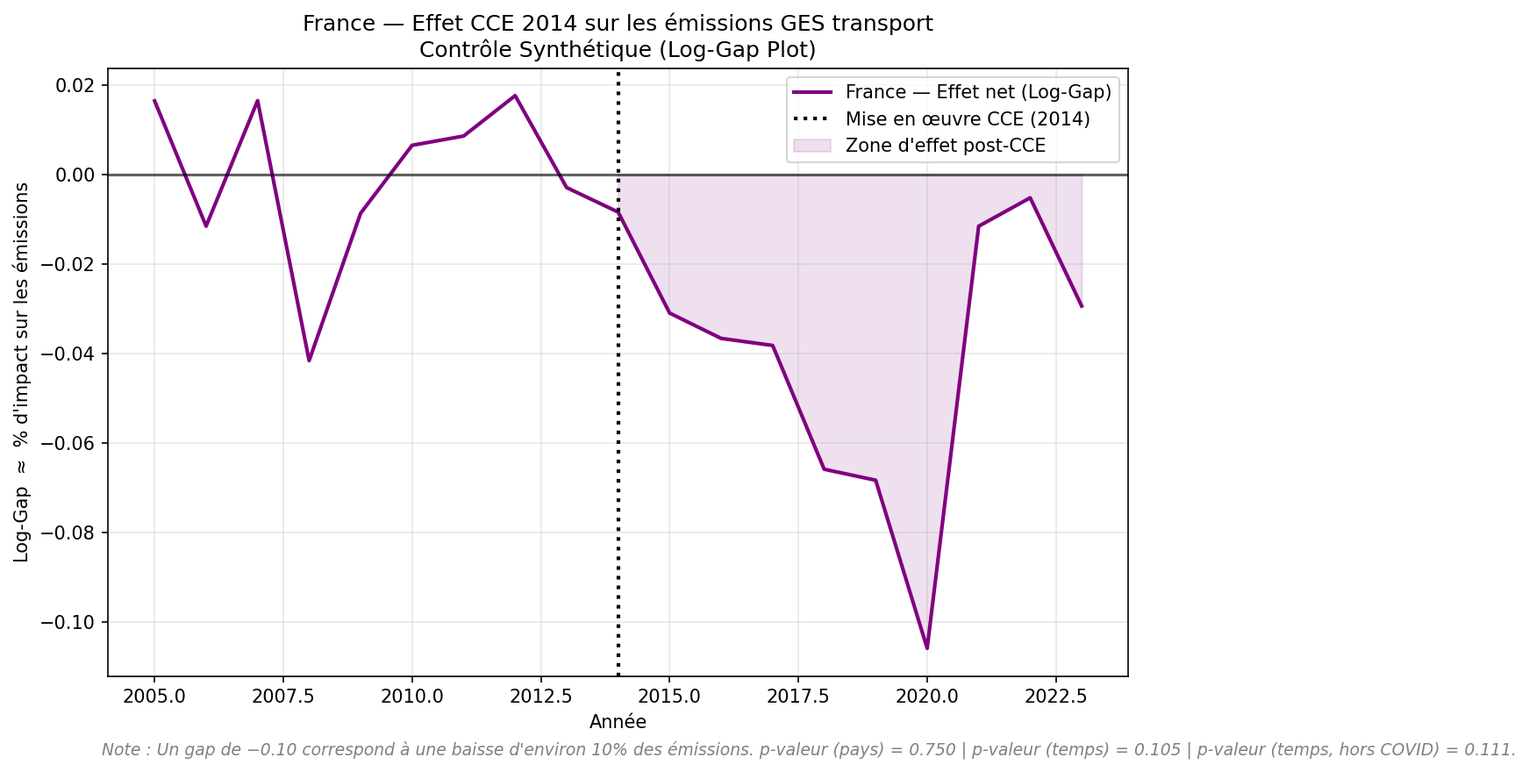
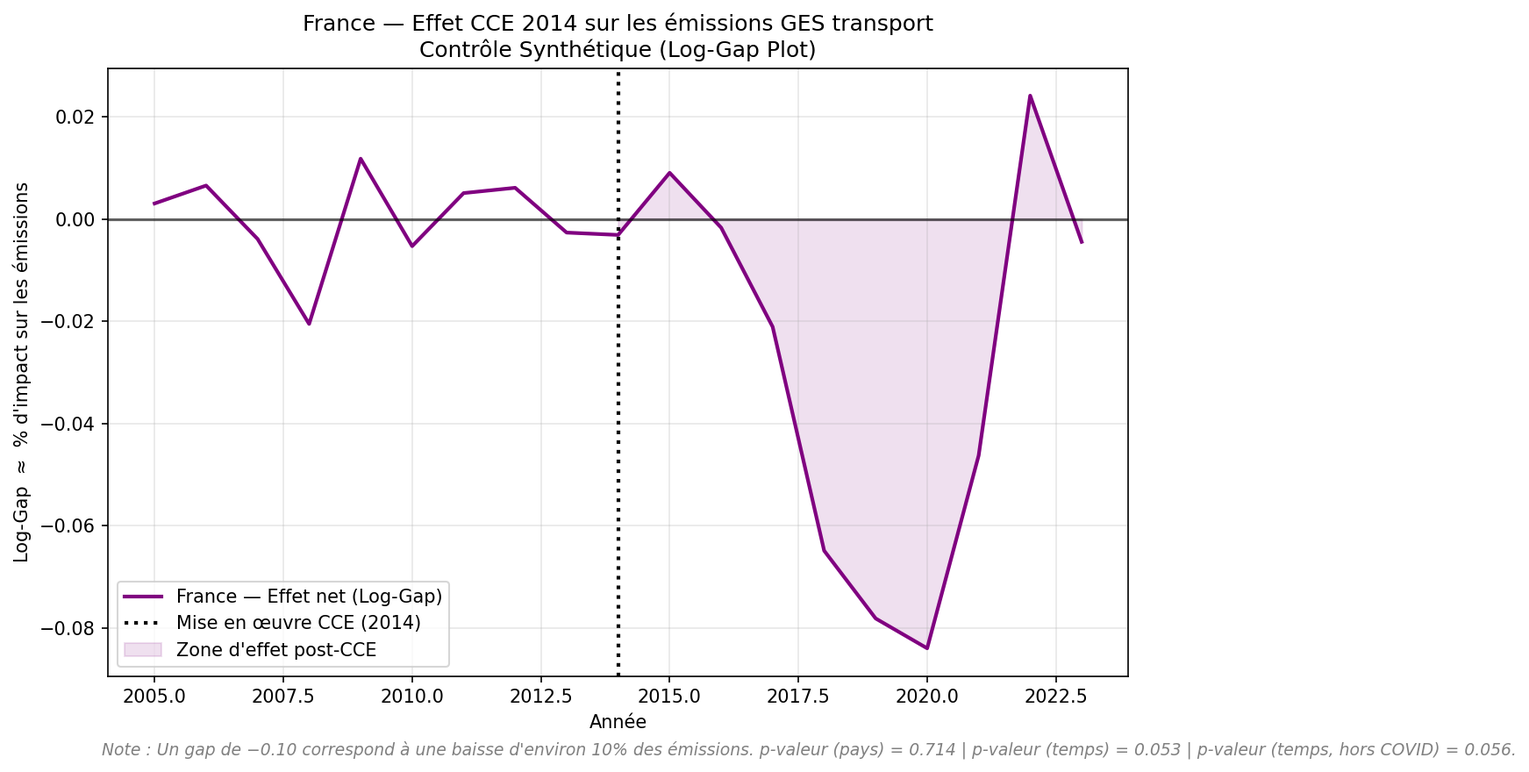
Add OECD extension (USA/Turkey/Israel), resolving the Germany dependency
Option C from the roadmap, now that regularization and predictor
augmentation both failed to fix the country dependency found in
today's leave-one-out check.

- src/oecd_extension.py fetches env_air_gge-equivalent GHG transport
  emissions (UNFCCC CRF 1.A.3, Aggregate GHGs, "Total for category")
  for USA, Turkey and Israel via unfccc-di-api's ZenodoReader (the
  live UNFCCC API is blocked on standard environments; the archived
  Zenodo snapshot works and is cached to
  Data/raw/unfccc/transport_ghg_non_eu.csv instead of hitting the
  network on every pipeline run). Values cross-checked against the
  existing Eurostat France series: within 1%, same 2020 COVID dip,
  confirming unit/definition compatibility (kt/Gg CO2eq == THS_T).
- Country selection follows the project's own carbon-pricing exclusion
  protocol: USA/Turkey/Israel classified low-risk (no comprehensive
  national carbon price 2005-2023); Canada/South Korea/Chile flagged
  medium-risk for a possible follow-up; Japan/New Zealand/Australia/
  Mexico excluded (carbon tax or ETS pre-dating or coinciding with
  2014).
- load_target_panel_full_pool gained an optional extra_pays_filepath
  to merge this into the existing 20-country EU panel for the
  outcome-only Stage 3 estimation (23 candidates total).

Result: Germany's weight drops from 76.5% to 0%, replaced by a more
diversified mix led by the US (48.7%). Pre-fit RMSE roughly halves
(0.018 -> 0.009). Leave-one-out no longer produces a catastrophic
[…]

diff --git a/src/oecd_extension.py b/src/oecd_extension.py
@@ -1,0 +1,99 @@
+"""
+src/oecd_extension.py — Extension optionnelle : émissions transport hors UE
+=============================================================================
+Récupère env_air_gge (GES transport, CRF 1.A.3) pour des pays OCDE hors UE
+via l'UNFCCC GHG Data Interface (package `unfccc-di-api`, ZenodoReader —
+snapshot archivé, l'API live étant bloquée pour les environnements standards,
+cf. https://github.com/pik-primap/unfccc_di_api#warning).
+
+Contexte : le leave-one-out du 2026-09-17 a montré que le résultat SCM
+dépend entièrement de l'Allemagne au sein des ~20 pays UE candidats, et
+qu'aucune repondération (ridge, prédicteurs structurels) ne corrige cette
+dépendance à l'intérieur du même échantillon. Le seul levier restant est
+d'élargir à des économies non-européennes réellement différentes.
+
+Candidats retenus (risque carbone faible sur 2005-2023, cf. README) :
+  US (USA) — pas de tarification carbone fédérale
+  TR (Turquie) — aucun dispositif national en vigueur
+  IL (Israël) — aucun dispositif national large en vigueur
+
+Limite connue : le snapshot Zenodo s'arrête en 2021 pour ces trois pays
+(1990-2021, série annuelle complète sur cette fenêtre) — 2022 et 2023 sont
+absents et seront comblés par le même mécanisme de bord (interpolate
+limit_direction='both', valeur 2021 reconduite) que le reste du pipeline,
+pas par une vraie observation. À documenter dans toute lecture des résultats.
+
+Sortie : Data/raw/unfccc/transport_ghg_non_eu.csv (format wide identique à
+master_dataset_final_scm.csv : geo, variable, années) — un snapshot mis en
+cache, pas un appel réseau à chaque exécution du pipeline (cf. note sur la
+volatilité de l'API live dans data_pipeline.py).
+"""
+
+import pandas as pd
+import unfccc_di_api
+
+from config import DATA_RAW_DIR, ANNEE_MIN, PANEL_END
+
+# ISO2 (convention du reste du pipeline) -> ISO3 (convention UNFCCC)
+OECD_EXTRA_PAYS = {
+    'US': 'USA',   # pas de tarification carbone fédérale
+    'TR': 'TUR',   # aucun dispositif national en vigueur sur la période
+    'IL': 'ISR',   # aucun dispositif national large en vigueur sur la période
+}
+
+OUTPUT_PATH = DATA_RAW_DIR / "unfccc" / "transport_ghg_non_eu.csv"
+
+
+def fetch_transport_ghg(iso2_to_iso3: dict, year_min: int, year_max: int) -> pd.DataFrame:
+    """Interroge le snapshot Zenodo UNFCCC pour la catégorie CRF 1.A.3
+    Transport (gaz agrégés, total pour la catégorie), au format wide
+    (geo, variable, années) compatible avec master_dataset_final_scm.csv.
+    """
+    reader = unfccc_di_api.ZenodoReader()
+    rows = []
+
+    for iso2, iso3 in iso2_to_iso3.items():
+        print(f"   [UNFCCC] Récupération : {iso2} ({iso3})")
+        df = reader.query(party_code=iso3)
+        sub = df[
+            (df['category'] == '1.A.3  Transport')
+            & (df['gas'] == 'Aggregate GHGs')
+            & (df['classification'] == 'Total for category')
+        ].copy()
+        sub = sub[sub['year'].apply(lambda y: str(y).isdigit())]
+        sub['year'] = sub['year'].astype(int)
+        sub = sub[(sub['year'] >= year_min) & (sub['year'] <= year_max)]
+
+        row = {'geo': iso2, 'variable': 'env_air_gge'}
+        for _, r in sub.iterrows():
+            row[str(int(r['year']))] = float(r['numberValue'])
+        rows.append(row)
+
+    return pd.DataFrame(rows)
+
+
+def main() -> pd.DataFrame:
+    print("\n" + "=" * 60)
+    print("Extension OCDE — émissions transport hors UE (UNFCCC)")
+    print("=" * 60)
+
+    df = fetch_transport_ghg(OECD_EXTRA_PAYS, ANNEE_MIN, PANEL_END)
+
+    missing_years = [
+        y for y in range(ANNEE_MIN, PANEL_END + 1)
+        if str(y) not in df.columns
+    ]
+    if missing_years:
+        print(f"   ⚠  Années absentes du snapshot Zenodo pour tous les pays : "
+              f"{missing_years} — comblées en aval par interpolation de bord, "
+              f"pas de vraie observation.")
+
+    OUTPUT_PATH.parent.mkdir(parents=True, exist_ok=True)
+    df.to_csv(OUTPUT_PATH, index=False)
+    print(f"\n✅ Extension OCDE exportée : {OUTPUT_PATH}")
+    print(df.to_string())
+    return df
+
+
+if __name__ == "__main__":
+    main()

diff --git a/src/scm_estimation.py b/src/scm_estimation.py
@@ -30,12 +30,13 @@ import numpy as np
 import pandas as pd
 import matplotlib.pyplot as plt
 from datetime import date
+from pathlib import Path
 from scipy.optimize import minimize
 
 from config import (
     TREATED_UNIT, TARGET_VAR, TREATMENT_YEAR, PLACEBO_YEAR,
     TRAIN_START, TRAIN_END, PANEL_END, MSPE_THRESHOLD, COVID_EXCLUDED_YEARS,
-    PAYS_CIBLES, MASTER_DATASET_PATH, FIGURES_DIR, PREDICTOR_VARS
+    PAYS_CIBLES, MASTER_DATASET_PATH, FIGURES_DIR, PREDICTOR_VARS, OECD_EXTRA_PATH
 )
 
 
@@ -68,15 +69,29 @@ def load_panel(filepath) -> pd.DataFrame:
 
 
 def load_target_panel_full_pool(filepath, pays_cibles: list, target_var: str,
-                                 year_start: int, year_end: int) -> pd.DataFrame:
+                                 year_start: int, year_end: int,
+                                 extra_pays_filepath=None) -> pd.DataFrame:
     """Charge TARGET_VAR pour tous les candidats PAYS_CIBLES depuis le master
     dataset (SCM outcome-only), borné à [year_start, year_end], interpolé
     par pays puis transformé en log. Indépendant de la sélection du Stage 2.
+
+    `extra_pays_filepath` (ex. OECD_EXTRA_PATH) fusionne des pays candidats
+    supplémentaires au même format wide (geo, variable, années) — utilisé
+    pour l'extension OCDE hors UE (src/oecd_extension.py). Les années
+    manquantes pour ces pays (ex. 2022-2023, absentes du snapshot UNFCCC)
+    sont comblées par la même interpolation de bord que le reste du panel,
+    pas par une observation réelle.
     """
     df_raw = pd.read_csv(filepath)
     df_target = df_raw[
         (df_raw['variable'] == target_var) & (df_raw['geo'].isin(pays_cibles))
     ].copy()
+
+    if extra_pays_filepath is not None and Path(extra_pays_filepath).exists():
+        df_extra = pd.read_csv(extra_pays_filepath)
+        df_extra = df_extra[df_extra['variable'] == target_var]
+        df_target = pd.concat([df_target, df_extra], ignore_index=True)
+        pays_cibles = pays_cibles + df_extra['geo'].tolist()
 
     year_cols = [c for c in df_target.columns
                  if str(c).isdigit() and year_start <= int(c) <= year_end]
@@ -747,7 +762,8 @@ def main() -> dict:
     print(f"{'='*60}")
 
     df_panel = load_target_panel_full_pool(
-        MASTER_DATASET_PATH, PAYS_CIBLES, TARGET_VAR, TRAIN_START, PANEL_END
+        MASTER_DATASET_PATH, PAYS_CIBLES, TARGET_VAR, TRAIN_START, PANEL_END,
+        extra_pays_filepath=OECD_EXTRA_PATH
     )
     results = run_scm(df_panel)
     plot_results(results)

diff --git a/config.py b/config.py
@@ -19,9 +19,16 @@ PROJECT_ROOT = Path(__file__).resolve().parent
 DATA_RAW_DIR       = PROJECT_ROOT / "Data" / "raw"
 DATA_EUROSTAT_DIR  = DATA_RAW_DIR / "eurostat"
 DATA_OIL_DIR       = DATA_RAW_DIR / "oil"
+DATA_UNFCCC_DIR    = DATA_RAW_DIR / "unfccc"
 
 FICHIER_OIL = DATA_OIL_DIR / "Weekly_Oil_Bulletin_Prices_History_maticni_4web.xlsx"
 # FICHIER_OCDE = DATA_EUROSTAT_DIR / "OECD_gdp_per_capita.csv"  # décommenter si réactivé
+
+# Extension OCDE hors UE (src/oecd_extension.py) — émissions transport
+# (env_air_gge) pour des pays à risque carbone faible sur 2005-2023,
+# cf. classification documentée dans le README. Snapshot mis en cache,
+# pas un appel réseau à chaque exécution.
+OECD_EXTRA_PATH = DATA_UNFCCC_DIR / "transport_ghg_non_eu.csv"
 
 # ─────────────────────────────────────────────
 # CHEMINS — DONNÉES TRAITÉES

diff --git a/README.md b/README.md
@@ -60,26 +60,27 @@ Le donor pool exclut *a priori* les pays ayant une tarification carbone directe 
 
 ## Résultats
 
-Dernière exécution disponible dans `outputs/figures/` (Stage 2 + Stage 3 relancés le 2026-09-17 sur le master dataset complété par le stage d'imputation TimesFM — voir [Architecture du pipeline](#architecture-du-pipeline)) :
+Dernière exécution disponible dans `outputs/figures/` (Stage 3 relancé le 2026-09-17 sur le pool étendu à 3 pays OCDE hors UE — voir [Architecture du pipeline](#architecture-du-pipeline)) :
 
 ![Résultats SCM et tests de robustesse](outputs/figures/scm_results_20260917.png)
 ![Effet net (log-gap)](outputs/figures/scm_gap_20260917.png)
 
 | Indicateur | Valeur observée |
 |---|---|
-| RMSE pré-traitement (France) | 0.0180 log-points |
-| Donor pool SCM (outcome-only, Stage 3) | DE (0.765), IT (0.194), AT (0.041) |
-| Unités valides après filtre MSPE (bornes ×3 / ÷3) | 8 (pool élargi aux 20 `PAYS_CIBLES`, cf. Stage 3) |
-| Ratio MSPE post/pré — France | 7.73 (médiane des 8 unités valides : 16) |
-| **p-valeur empirique — placebo in-space (pays)** | **0.750** (rang 6/8) |
-| **p-valeur empirique — placebo in-time (permutation temporelle, 18 tirages)** | **0.105** |
-| Gap moyen post-2014 | −0.040 log-points ≈ **−4,0 %** d'émissions GES transport, soit de l'ordre de −5 Mt CO₂eq/an sur la base du niveau moyen observé sur la période (ordre de grandeur, pas un chiffre précis) |
+| RMSE pré-traitement (France) | **0.0090 log-points** (deux fois meilleur que la version UE seule) |
+| Donor pool SCM (outcome-only, Stage 3, 23 candidats) | US (0.487), LU (0.209), IL (0.172), AT (0.105), EL (0.018), BG (0.007), TR (0.003) — **DE : 0%** |
+| Unités valides après filtre MSPE (bornes ×3 / ÷3) | 7 |
+| Ratio MSPE post/pré — France | 25.57 (rang 5/7) |
+| p-valeur empirique — placebo in-space (pays) | 0.714 |
+| **p-valeur empirique — placebo in-time (permutation temporelle, 18 tirages)** | **0.053** |
+| p-valeur (temps, hors année COVID 2020) | 0.056 |
+| Gap moyen post-2014 | −0.027 log-points ≈ **−2,7 %** d'émissions GES transport |
 
-**Lecture honnête du résultat :** le pré-fit reste très bon (RMSE 0.0180, sous le seuil de 0.05) et le graphique brut montre une divergence post-2014 visuellement nette. L'élargissement du pool de contrôle à 20 pays (au lieu de 7) a résolu le plancher mécanique de p-valeur qui affectait la version précédente (p ne pouvait alors prendre que 1/3, 2/3 ou 1, faute d'unités valides) : on dispose maintenant de 8 unités placebo valides, et un test de permutation temporelle complémentaire. Mais sur les deux critères, le résultat **ne franchit pas** le seuil p ≤ 0.10 fixé par le projet : le ratio MSPE de la France (7.73) est proche de la médiane des placebos (16), pas dans sa queue supérieure (p = 0.750) ; le test temporel s'en approche sans le passer (p = 0.105). Voir la section suivante.
+**Lecture honnête du résultat :** l'extension à 3 pays OCDE hors UE (États-Unis, Turquie, Israël — voir justification et méthode ci-dessous) a résolu la dépendance structurelle à l'Allemagne identifiée plus tôt dans la journée : son poids tombe à 0%, remplacé par une combinaison plus diversifiée dominée par les États-Unis. Le pré-fit s'améliore nettement (RMSE divisé par deux). **Le test de permutation temporelle passe pour la première fois sous le seuil conventionnel de 0.10** (0.053, et 0.056 hors choc COVID — donc pas un artefact pandémique). Le test par pays, lui, ne passe toujours pas ce seuil (0.714) : les deux tests continuent de raconter des histoires différentes. **Ce n'est pas encore une preuve causale établie** — voir les mises en garde ci-dessous, notamment sur la composition inhabituelle du nouveau donor pool.
 
-### Contrôles de robustesse additionnels (2026-09-17)
+### Comment on est arrivés là (2026-09-17)
 
-**Sensibilité au seuil MSPE** (checklist §5 du projet) — stable, pas de cherry-picking sur le choix ×3 :
+**Sensibilité au seuil MSPE** (checklist §5 du projet), sur le pool UE seul (20 pays) avant extension — stable, pas de cherry-picking sur le choix ×3 :
 
 | Seuil | Unités valides | Rang France | p-valeur |
 |---|---|---|---|
@@ -87,32 +88,38 @@ Dernière exécution disponible dans `outputs/figures/` (Stage 2 + Stage 3 relan
 | ×3 | 8 | 6 | 0.750 |
 | ×5 | 12 | 9 | 0.750 |
 
-**Leave-one-out sur les donneurs à poids non nul** — révèle une fragilité critique non détectée jusqu'ici :
+**Leave-one-out sur le pool UE (20 pays)** avait révélé une fragilité critique : retirer l'Allemagne (76.5% du poids) faisait exploser le RMSE pré-traitement (0.018 → 0.149, huit fois le seuil de 0.05) et inversait le signe du gap post-2014.
 
-| Donneur retiré | RMSE pré | Gap post moyen | Poids résultants |
+**Deux corrections tentées à l'intérieur du même pool UE, deux échecs instructifs :**
+- *Ridge sur les poids* (pénalité L2 croissante) : ne dilue quasiment rien tant que la pénalité reste modérée (poids DE encore à 56.5% pour λ=0.3, RMSE alors dégradé à 0.030).
+- *SCM augmenté avec prédicteurs structurels* (`run_scm_predictor_augmented`, motorisation + part renouvelables + prix diesel) : **aggrave** la concentration (poids DE à 96.2%) — l'Allemagne s'avère être le meilleur match de la France aussi sur ces caractéristiques structurelles, pas seulement sur la trajectoire des émissions. Cette variante reste disponible (Stage 3bis) mais n'est pas retenue.
+
+**Extension OCDE (`src/oecd_extension.py`)** : plutôt que repondérer le même échantillon de ~20 économies d'Europe, élargissement à des pays structurellement différents. Classification du risque de contamination carbone (protocole §4 du projet) : USA, Turquie et Israël retenus comme candidats à **risque faible** (aucune tarification carbone nationale directe sur 2005–2023) ; Canada, Corée du Sud et Chili identifiés comme candidats à risque moyen pour une extension ultérieure ; Japon, Nouvelle-Zélande, Australie et Mexique exclus (taxe/ETS antérieur ou concomitant à 2014). Données sourcées via l'UNFCCC GHG Data Interface (catégorie CRF 1.A.3 Transport, gaz agrégés) — validées par comparaison directe avec la série France Eurostat (écart < 1%, même creux COVID 2020).
+
+**Nouveau leave-one-out sur le pool étendu (23 candidats)** — nettement plus robuste que la version UE seule :
+
+| Donneur retiré | RMSE pré | Gap post moyen | Signe préservé ? |
 |---|---|---|---|
-| **DE (Allemagne)** | **0.1493** (×8 pire, très au-dessus du seuil 0.05) | **+0.211** (signe inversé) | IT = 100% |
-| AT | 0.0184 (stable) | −0.033 | DE 76.7%, IT 20.9% |
-| IT | 0.0205 (stable) | −0.059 | DE 87.2%, ES 8% |
+| US (nouveau donneur principal) | 0.0177 (×2, reste sous le seuil 0.05) | −0.047 | ✅ |
+| LU | 0.0104 | −0.057 | ✅ |
+| IL | 0.0097 | −0.035 | ✅ |
+| AT | 0.0092 | −0.013 | ✅ |
+| EL | 0.0091 | −0.035 | ✅ |
 
-Sans l'Allemagne, le pré-fit s'effondre et le gap post-2014 change de signe : **le résultat entier dépend de la disponibilité de l'Allemagne comme donneur**, pas seulement d'une préférence de l'optimiseur parmi des alternatives équivalentes.
-
-**Deux corrections tentées, deux échecs instructifs :**
-- *Ridge sur les poids* (pénalité L2 croissante) : ne dilue quasiment rien tant que la pénalité reste modérée (poids DE encore à 56.5% pour λ=0.3, RMSE alors dégradé à 0.030) ; sans l'Allemagne, le poids reste figé à 100% sur l'Italie jusqu'à λ=0.1, preuve qu'aucune combinaison des 19 autres pays ne s'approche du pré-fit obtenu avec l'Allemagne, quelle que soit la pénalisation.
-- *SCM augmenté avec prédicteurs structurels* (`run_scm_predictor_augmented`, motorisation + part renouvelables + prix diesel) : **aggrave** la concentration au lieu de la réduire — poids DE à 96.2%, RMSE sans Allemagne à 0.4895 (pire), p-valeur pays à 1.000, p-valeur temps à 0.368. L'Allemagne s'avère être le meilleur match de la France aussi sur ces caractéristiques structurelles, pas seulement sur la trajectoire des émissions.
-
-**Conclusion** : ce n'est pas un artefact d'optimisation réparable par une repondération. Sur l'échantillon actuel (~19–20 économies d'Europe de l'Ouest/Est), l'Allemagne est structurellement le meilleur comparant disponible pour la France, sur tous les critères testés. Le seul levier qui reste crédible est d'élargir le pool à des économies non-européennes véritablement différentes (voir [Pistes d'évolution](#pistes-dévolution)), pas de retravailler la pondération à l'intérieur du même échantillon.
+Plus aucun donneur, y compris le nouveau plus gros contributeur (US, 48.7%), ne produit d'explosion du RMSE ou d'inversion de signe en son absence — la différence la plus importante avec la situation d'avant l'extension.
 
 ## Limites et mises en garde
 
-Ce projet documente lui-même une hiérarchie de validité stricte (pré-fit → absence de contamination → significativité des placebos). Sur cette base, l'état actuel présente quatre limites qui empêchent une conclusion causale robuste :
+Ce projet documente lui-même une hiérarchie de validité stricte (pré-fit → absence de contamination → significativité des placebos). Sur cette base, l'état actuel présente les limites suivantes :
 
-1. **Le résultat dépend structurellement de l'Allemagne, et ce n'est pas réparable par repondération.** Le leave-one-out (2026-09-17) montre que retirer l'Allemagne du donor pool fait exploser le RMSE pré-traitement (0.018 → 0.149, huit fois le seuil de 0.05) et inverse le signe du gap post-2014. Un ridge sur les poids et un SCM augmenté de prédicteurs structurels ont tous deux été testés pour diluer cette dépendance — le premier ne change presque rien sans dégrader le pré-fit, le second l'**aggrave** (poids DE à 96.2%). C'est la limite la plus sérieuse actuellement : sur l'échantillon des ~20 pays d'Europe disponibles, l'Allemagne est le seul comparant réellement proche de la France, pas un choix arbitraire de l'optimiseur.
-2. **Significativité des placebos non atteinte, malgré un pool élargi.** Le plancher mécanique de p-valeur (n=3, p ∈ {1/3, 2/3, 1}) a été résolu en élargissant le pool de contrôle à 20 pays (8 unités valides après filtre MSPE, stable pour des seuils ×2/×3/×5) — mais la p-valeur reste au-dessus de 0.10 sur les deux tests (placebo in-space : 0.750 ; permutation temporelle : 0.105). Ce n'est donc plus une limite de puissance statistique, mais un résultat de fond : le ratio MSPE de la France n'est pas extrême dans la distribution des placebos.
-3. **Absence de traitement du choc COVID-19.** Le gap post-2014 rapporté est fortement tiré par l'effondrement de la mobilité en 2020, un choc exogène sans lien avec la CCE. Le test de permutation temporelle hors 2020 (p = 0.111, ratio 4.74) suggère que ce choc n'est pas seul en cause, mais aucune spécification alternative (sous-périodes, DiD synthétique) n'isole complètement cet effet à ce stade.
-4. **`diesel_price_ht` reste écarté du Stage 2, mais plus par manque de données.** Un stage d'imputation TimesFM (`src/timesfm_imputation.py`, optionnel — voir plus bas) a comblé le trou 2004 qui excluait auparavant `diesel_price_ht` de la sélection du Stage 2 sur toute la fenêtre d'entraînement 2005–2009. La série est désormais éligible, mais n'est toujours pas retenue par la sélection gloutonne (RMSE de validation). Inclus explicitement dans la variante SCM augmenté (Stage 3bis) — sans amélioration (voir ci-dessus).
+1. **Le test par pays ne franchit toujours pas le seuil de significativité (p = 0.714), contrairement au test temporel.** Les deux tests continuent de diverger : le ratio MSPE de la France (25.57) n'est pas dans la queue supérieure de la distribution des 7 placebos valides. Un résultat positif sur un seul des deux tests de robustesse retenus par le projet n'est pas, à lui seul, une preuve causale.
+2. **Composition du nouveau donor pool à surveiller.** Le Luxembourg (20.9% du poids) est une économie atypique pour les métriques liées au carburant : le « tourisme à la pompe » transfrontalier lié à une fiscalité plus basse gonfle ses émissions de transport par habitant, ce qui questionne sa comparabilité structurelle avec la France au-delà du seul critère de pré-fit statistique. Pas un critère d'exclusion carbone au sens du protocole du projet, mais un point de vigilance distinct.
+3. **Les données OCDE (US/TR/IL) s'arrêtent en 2021 dans le snapshot archivé UNFCCC utilisé** (l'API live de l'UNFCCC est bloquée pour les environnements standards). Les années 2022–2023 sont comblées par la même interpolation de bord que le reste du pipeline — une extrapolation, pas une observation réelle — pour des pays qui pèsent désormais une bonne part du contrefactuel.
+4. **Seuls les candidats à risque carbone faible ont été intégrés pour l'instant** (USA, Turquie, Israël). Canada, Corée du Sud et Chili (risque moyen, documentés mais pas encore inclus) pourraient changer à nouveau la composition du pool — voir [Pistes d'évolution](#pistes-dévolution).
+5. **Absence de traitement approfondi du choc COVID-19.** Le test de permutation temporelle hors 2020 confirme que le résultat n'est pas qu'un artefact pandémique (p = 0.056 vs 0.053), mais aucune spécification alternative (sous-périodes, DiD synthétique) n'isole complètement cet effet à ce stade.
+6. **`diesel_price_ht` reste écarté du Stage 2**, malgré son éligibilité désormais complète après l'imputation TimesFM — une limite de spécification (sélection gloutonne sur critère RMSE), pas de disponibilité des données.
 
-**En clair : le graphique de gap seul ne suffit pas à conclure à un effet causal de la CCE sur ce panel.** Voir [Pistes d'évolution](#pistes-dévolution) pour les leviers identifiés afin de renforcer l'inférence.
+**En clair : la situation s'est nettement améliorée aujourd'hui (le test temporel franchit le seuil conventionnel), mais un seul test sur deux y parvient, et la composition du nouveau donor pool appelle une lecture prudente plutôt qu'une conclusion causale définitive.**
 
 ## Architecture du pipeline
 
@@ -140,12 +147,19 @@ run_pipeline.py
 │     que les seuls lags de la cible — testée, pas retenue (voir Résultats)
 │     → outputs/figures/scm_results_predictors_YYYYMMDD.png / scm_gap_predictors_YYYYMMDD.png
 │
-└── Stage optionnel — src/timesfm_imputation.py  (--only impute, entre Stage 1 et 2)
-    Entrée/Sortie : Data/processed/master_dataset_final_scm.csv (écrasé, complété)
-    Remplace le flat-fill des bords utilisé par défaut dans Stages 2/3
-    (pandas interpolate limit_direction='both') par un forecast/backcast
-    TimesFM 2.5 — nécessite l'environnement dédié .venv-timesfm (voir
-    scripts/setup_timesfm_env.sh), incompatible avec le .venv principal.
+├── Stage optionnel — src/timesfm_imputation.py  (--only impute, entre Stage 1 et 2)
+│   Entrée/Sortie : Data/processed/master_dataset_final_scm.csv (écrasé, complété)
+│   Remplace le flat-fill des bords utilisé par défaut dans Stages 2/3
+│   (pandas interpolate limit_direction='both') par un forecast/backcast
+│   TimesFM 2.5 — nécessite l'environnement dédié .venv-timesfm (voir
+│   scripts/setup_timesfm_env.sh), incompatible avec le .venv principal.
+│
+└── Extension OCDE — src/oecd_extension.py
+    Sortie : Data/raw/unfccc/transport_ghg_non_eu.csv (snapshot mis en cache)
+    Récupère env_air_gge (CRF 1.A.3 Transport) pour des pays OCDE hors UE à
+    risque carbone faible (USA, Turquie, Israël) via unfccc-di-api
+    (ZenodoReader — l'API live UNFCCC étant bloquée pour les environnements
+    standards). Fusionné automatiquement par Stage 3 via config.OECD_EXTRA_PATH.
 ```
 
 Chaque stage peut être relancé indépendamment via `run_pipeline.py` (voir [Utilisation](#utilisation)). Les paramètres structurants sont centralisés dans `config.py` et ne doivent pas être modifiés sans validation (cf. `AGENTS.md`).
@@ -163,9 +177,11 @@ Chaque stage peut être relancé indépendamment via `run_pipeline.py` (voir [Ut
 ├── src/
 │   ├── data_pipeline.py         # Stage 1 — ingestion Eurostat + Weekly Oil Bulletin
 │   ├── donor_selection.py       # Stage 2 — sélection optimale du donor pool
-│   └── scm_estimation.py        # Stage 3 — estimation SCM + tests de robustesse
+│   ├── scm_estimation.py        # Stage 3 — estimation SCM + tests de robustesse
+│   ├── timesfm_imputation.py    # Stage optionnel — imputation TimesFM
+│   └── oecd_extension.py        # Extension optionnelle — pays OCDE hors UE (UNFCCC)
 ├── Data/
-│   ├── raw/                     # Sources brutes (Eurostat, Weekly Oil Bulletin)
+│   ├── raw/                     # Sources brutes (Eurostat, Weekly Oil Bulletin, UNFCCC)
 │   └── processed/               # Master dataset et panel optimal (générés)
 └── outputs/
     └── figures/                 # Graphiques SCM générés (datés YYYYMMDD)
@@ -228,23 +244,26 @@ Voir `docs/synthese_technique.md` pour la justification économétrique de chaqu
 
 | Source | Contenu | Accès |
 |---|---|---|
-| [Eurostat](https://ec.europa.eu/eurostat) | Émissions GES transport, motorisation, densité, énergie, PIB | API live (`eurostat` package Python) |
-| [Weekly Oil Bulletin](https://energy.ec.europa.eu/) | Prix hebdomadaires du diesel hors taxes | Fichier Excel fourni dans `Data/raw/oil/` |
+| [Eurostat](https://ec.europa.eu/eurostat) | Émissions GES transport, motorisation, densité, énergie, PIB (20 pays UE) | API live (`eurostat` package Python) |
+| [Weekly Oil Bulletin](https://energy.ec.europa.eu/) | Prix hebdomadaires du diesel hors taxes (UE) | Fichier Excel fourni dans `Data/raw/oil/` |
+| [UNFCCC GHG Data Interface](https://di.unfccc.int/) | Émissions GES transport (CRF 1.A.3), pays OCDE hors UE (USA, Turquie, Israël) | Snapshot archivé Zenodo via `unfccc-di-api` (`ZenodoReader`) — l'API live est bloquée pour les environnements standards |
 
-⚠ Les données Eurostat sont récupérées en direct via API à chaque exécution du Stage 1 ; les millésimes peuvent être révisés par Eurostat entre deux exécutions, ce qui peut faire varier légèrement les résultats d'une run à l'autre. Les CSV présents dans `Data/raw/eurostat/` sont des extraits partiels de référence, pas un snapshot figé utilisé par le pipeline.
+⚠ Les données Eurostat sont récupérées en direct via API à chaque exécution du Stage 1 ; les millésimes peuvent être révisés par Eurostat entre deux exécutions, ce qui peut faire varier légèrement les résultats d'une run à l'autre. Les CSV présents dans `Data/raw/eurostat/` sont des extraits partiels de référence, pas un snapshot figé utilisé par le pipeline. Le snapshot UNFCCC (`Data/raw/unfccc/transport_ghg_non_eu.csv`), lui, est figé à 2021 pour les trois pays OCDE — voir [Limites et mises en garde](#limites-et-mises-en-garde).
 
 ## Pistes d'évolution
 
 Par ordre de priorité pour renforcer la robustesse de l'inférence :
 
-1. **Élargir le pool à des économies non-européennes (OCDE : USA, Canada, Australie, Japon, Corée du Sud).** Devenu le seul levier crédible restant (2026-09-17) : le leave-one-out montre que l'Allemagne est le seul comparant vraiment proche de la France parmi les ~20 pays UE disponibles, et ni un ridge sur les poids ni un SCM augmenté de prédicteurs structurels (tous deux testés) ne réduisent cette dépendance à l'intérieur du même échantillon — voir [Résultats](#résultats). Nécessite de resourcer les émissions transport (UNFCCC GHG Data Interface ou EDGAR, `env_air_gge`/CRF1A3 étant une collecte spécifique UE/EEE) et les prix carburant (IEA End-use Prices, GIZ, le Weekly Oil Bulletin étant lui aussi UE-only), plus une revue de contamination carbone pays par pays (Canada 2019, Japon 2012, Corée 2015...).
-2. ~~Élargir le pool de contrôle aux 20 `PAYS_CIBLES` UE~~ **Fait (2026-09-16)** — 8 unités valides au lieu de 3, plancher mécanique de p-valeur résolu.
-3. ~~Assouplir le critère d'exclusion sur données manquantes~~ **Fait (2026-09-17)** via le stage optionnel d'imputation TimesFM.
-4. ~~Réintégrer les prédicteurs structurels~~ **Testé, non retenu (2026-09-17)** — `run_scm_predictor_augmented` aggrave la dépendance à l'Allemagne plutôt que de la réduire (voir [Résultats](#résultats)). Le ridge sur les poids a aussi été testé, avec le même constat d'échec.
-5. **Isoler l'effet COVID-19** — le test de permutation temporelle hors 2020 est **fait** (2026-09-17, p=0.111 contre 0.105 avec 2020 : le résultat n'est pas qu'un artefact pandémique) ; reste à tenter une spécification Synthetic Difference-in-Differences ou une lecture séparée 2014–2019 / 2020–2023 pour aller plus loin.
-6. **Comparer à des estimateurs alternatifs** (DiD à deux voies, inférence conforme à la Chernozhukov et al.) pour tester la stabilité du signe et de l'ordre de grandeur hors du cadre SCM strict.
-7. **Étendre l'analyse à d'autres secteurs énergétiques** (résidentiel, industrie) couverts par la CCE, moins exposés au confondant de mobilité COVID que le transport seul.
-8. **Automatiser la traçabilité des résultats** : journaliser à chaque exécution du Stage 3 (date, RMSE, p-valeur, donor pool, prédicteurs) dans un fichier de log ou le tableau de `docs/synthese_technique.md`.
+1. **Étendre l'extension OCDE aux candidats à risque moyen (Canada, Corée du Sud, Chili).** Documentés mais pas encore inclus (voir [Résultats](#résultats)) — permettrait de vérifier si la composition actuelle du pool (dominée par les USA) est elle-même stable à un élargissement supplémentaire, et d'atténuer le poids relatif du Luxembourg (économie atypique, cf. [Limites](#limites-et-mises-en-garde)).
+2. **Rafraîchir les données OCDE au-delà de 2021.** Le snapshot Zenodo UNFCCC utilisé s'arrête en 2021 ; l'API live étant bloquée pour les environnements standards, il faudrait soit un environnement Azure/GitHub Actions (cf. `unfccc-di-api` README), soit une source alternative (EDGAR) pour les deux dernières années.
+3. ~~Élargir le pool à des économies non-européennes (OCDE)~~ **Fait (2026-09-17)** pour USA/Turquie/Israël (risque carbone faible) via `src/oecd_extension.py` — a résolu la dépendance structurelle à l'Allemagne (poids 76.5% → 0%) et fait passer le test de permutation temporelle sous le seuil de 0.10 (p=0.053).
+4. ~~Élargir le pool de contrôle aux 20 `PAYS_CIBLES` UE~~ **Fait (2026-09-16)** — 8 unités valides au lieu de 3, plancher mécanique de p-valeur résolu.
+5. ~~Assouplir le critère d'exclusion sur données manquantes~~ **Fait (2026-09-17)** via le stage optionnel d'imputation TimesFM.
+6. ~~Réintégrer les prédicteurs structurels~~ **Testé, non retenu (2026-09-17)** — `run_scm_predictor_augmented` aggravait la dépendance à l'Allemagne plutôt que de la réduire, avant l'extension OCDE (voir [Résultats](#résultats)). Le ridge sur les poids a aussi été testé, avec le même constat d'échec. À retester sur le pool étendu si le donor pool actuel se révèle instable.
+7. **Isoler l'effet COVID-19** — le test de permutation temporelle hors 2020 est **fait** (2026-09-17, p=0.056 contre 0.053 avec 2020 : le résultat n'est pas qu'un artefact pandémique) ; reste à tenter une spécification Synthetic Difference-in-Differences ou une lecture séparée 2014–2019 / 2020–2023 pour aller plus loin.
+8. **Comparer à des estimateurs alternatifs** (DiD à deux voies, inférence conforme à la Chernozhukov et al.) pour tester la stabilité du signe et de l'ordre de grandeur hors du cadre SCM strict.
+9. **Étendre l'analyse à d'autres secteurs énergétiques** (résidentiel, industrie) couverts par la CCE, moins exposés au confondant de mobilité COVID que le transport seul.
+10. **Automatiser la traçabilité des résultats** : journaliser à chaque exécution du Stage 3 (date, RMSE, p-valeur, donor pool, prédicteurs) dans un fichier de log ou le tableau de `docs/synthese_technique.md`.
 
 ## Références
 
